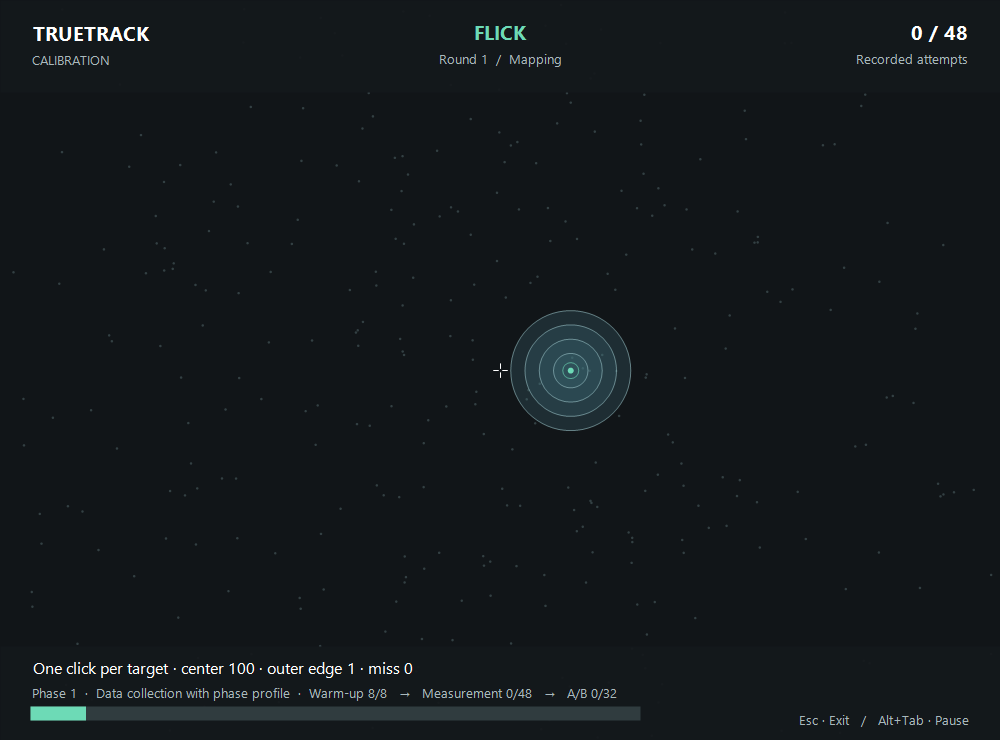
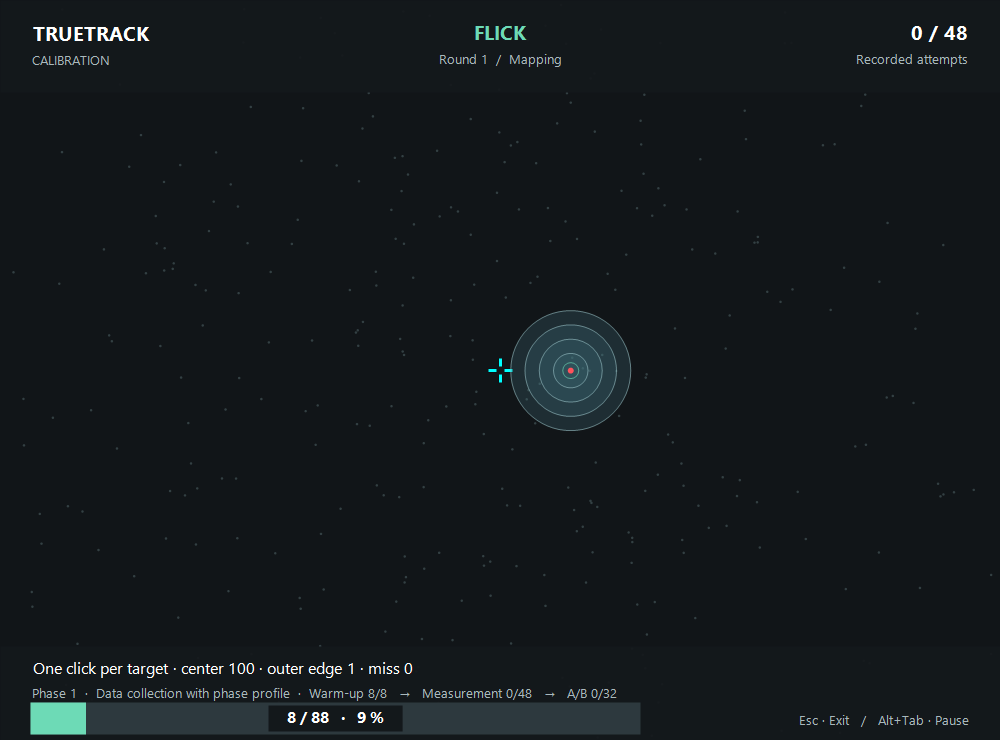
Release 0.19.2 with welcome crosshair selection and clearer progress

Changed region(s): [[0.031, 0.9324, 0.651, 0.9946]]

diff --git a/src/CircleForm.cs b/src/CircleForm.cs
@@ -1,4 +1,4 @@
-using System;
+using System;
 using System.Collections.Generic;
 using System.Diagnostics;
 using System.Drawing;
@@ -10,17 +10,19 @@ namespace VectorFit {
         readonly Setup setup;readonly Correction input;readonly List<CircleLap> plan;readonly Stopwatch clock=Stopwatch.StartNew();readonly Timer timer=new Timer();
         readonly Font title=new Font("Segoe UI",24,FontStyle.Bold,GraphicsUnit.Pixel),body=new Font("Segoe UI",15,GraphicsUnit.Pixel),small=new Font("Segoe UI",13,GraphicsUnit.Pixel);
         public readonly CircleData Data=new CircleData{Protocol=3};public bool Completed;public string DeviceName="";
+        double introShown,introExit;
         CircleTracker tracker;int index;double x,y,deadline,started;string phase="ready",feedback="",transition="";bool captured;IntPtr device=IntPtr.Zero;
         public CircleForm(Setup value,Correction inputCorrection=null){
             setup=value;input=inputCorrection??new Correction();plan=CircleData.Plan();x=plan[0].Radius;
             Text=L.T("VectorFit | Sirkeltest");BackColor=Color.FromArgb(17,21,24);DoubleBuffered=true;KeyPreview=true;AutoScaleMode=AutoScaleMode.None;WindowState=FormWindowState.Maximized;FormBorderStyle=FormBorderStyle.None;
             timer.Interval=16;timer.Tick+=delegate{
                 double now=clock.Elapsed.TotalMilliseconds;
+                if(phase=="intro-out"&&now-introExit>=320)BeginNext(true);
                 if(phase=="countdown"&&now>=deadline)BeginDrawing();
                 if(phase=="drawing"&&now-started>20000){tracker.Lap.Reason="Tiden gikk ut";FinishLap();}
                 Invalidate();
             };
-            Shown+=delegate{CaptureInput();timer.Start();};Deactivate+=delegate{if(captured)Pause();};
+            Shown+=delegate{introShown=clock.Elapsed.TotalMilliseconds;CaptureInput();timer.Start();};Deactivate+=delegate{if(captured)Pause();};
             FormClosing+=delegate{if(tracker!=null){tracker.Lap.Reason="Avsluttet";Data.Laps.Add(tracker.Lap);tracker=null;}};
             KeyDown+=delegate(object sender,KeyEventArgs e){if(e.KeyCode==Keys.Escape){Close();e.Handled=true;}if(e.KeyCode==Keys.Space&&phase=="paused"){CaptureInput();BeginNext(true);e.Handled=true;}};
         }
@@ -45,7 +47,7 @@ namespace VectorFit {
                     if(device==IntPtr.Zero&&(buttons&1)!=0){string name=Native.Name(handle);if(setup.Device!=""&&setup.Device!=name){feedback="Bruk samme mus og tilkobling som i kalibreringen.";}else{device=handle;DeviceName=name;}}
                     if(device!=IntPtr.Zero&&device==handle){
                         if(phase=="drawing"&&(dx!=0||dy!=0)){x+=dx*setup.DegreesPerCount;y+=dy*setup.DegreesPerCount;if(tracker.Add(x,y,clock.Elapsed.TotalMilliseconds))FinishLap();}
-                        if((buttons&1)!=0&&phase=="ready")BeginNext(true);
+                        if((buttons&1)!=0&&phase=="ready"){introExit=clock.Elapsed.TotalMilliseconds;phase="intro-out";}
                     }
                 }
             }base.WndProc(ref message);
@@ -64,14 +66,28 @@ namespace VectorFit {
                     var sizeText=g.MeasureString(L.T(countdown),body);PaintText.Draw(g,countdown,body,ink,cx-sizeText.Width/2,cy+48);
                 }
                 float pointerX=(float)(cx+x*scale),pointerY=(float)(cy+y*scale);using(var pen=new Pen(Color.FromArgb(237,244,242),1.5f)){g.DrawLine(pen,pointerX-9,pointerY,pointerX+9,pointerY);g.DrawLine(pen,pointerX,pointerY-9,pointerX,pointerY+9);}
-                if(phase=="ready")PaintText.Draw(g,DriverSetup.Text("Plasser musen midt på underlaget, med plass i alle retninger.","Center your mouse on the pad, with room in every direction."),body,ink,32,Height-145);
                 string instruction=phase=="ready"?DriverSetup.Text("Ingen krav til fine eller lukkede sirkler. Alle forsøk teller. Klikk for å starte.","No need for neat or closed circles. Every attempt counts. Click to start."):phase=="paused"?"Pause. Trykk mellomrom for å fortsette.":phase=="countdown"?"Gjør deg klar. Finn en behagelig bevegelse.":"La formen falle naturlig. Det er ingen punkter du må treffe.";
-                PaintText.Draw(g,instruction,body,ink,32,Height-112);
+                if(phase!="ready"&&phase!="intro-out")PaintText.Draw(g,instruction,body,ink,32,Height-112);
                 if(feedback!="")PaintText.Draw(g,feedback,small,muted,32,Height-137);
-                PaintText.Draw(g,"Datainnhenting → analyse → neste fase",small,muted,32,Height-76);
-                using(var track=new SolidBrush(Color.FromArgb(40,49,54)))g.FillRectangle(track,32,Height-48,Width-64,5);
-                g.FillRectangle(green,32,Height-48,(float)((Width-64)*(index+(tracker==null?0:tracker.Fraction))/60),5);
+                PaintText.Draw(g,"Datainnhenting → analyse → neste fase",small,muted,32,Height-90);
+                ProgressStrip.DrawBar(g,new RectangleF(32,Height-65,Width-64,32),(index+(tracker==null?0:tracker.Fraction))/60.0,index+" / 60");
                 PaintText.Draw(g,"Esc avslutter  ·  Alt+Tab setter på pause",small,muted,32,Height-28);
+                if(phase=="ready"||phase=="intro-out")DrawIntro(g);
+            }
+        }
+        void DrawIntro(Graphics g){
+            double now=clock.Elapsed.TotalMilliseconds;
+            float a=(float)Analysis.Clamp(phase=="intro-out"?1-(now-introExit)/320:(now-introShown)/650,0,1);a=a*a*(3-2*a);
+            float w=Math.Min(1000,ClientSize.Width-80),left=(ClientSize.Width-w)/2,top=ClientSize.Height/2f-210;
+            using(var shade=new SolidBrush(Color.FromArgb((int)(a*250),17,21,24)))g.FillRectangle(shade,left-20,top-30,w+40,440);
+            using(var heading=new Font("Segoe UI",36,FontStyle.Bold,GraphicsUnit.Pixel))using(var text=new Font("Segoe UI",24,GraphicsUnit.Pixel))
+            using(var ink=new SolidBrush(Color.FromArgb((int)(255*a),237,244,242)))using(var accent=new SolidBrush(Color.FromArgb((int)(255*a),109,218,182)))
+            using(var sf=new StringFormat{Alignment=StringAlignment.Center}){
+                g.DrawString(DriverSetup.Text("Finn din naturlige bevegelse","Discover your natural movement"),heading,ink,new RectangleF(left,top,w,65),sf);
+                g.DrawString(DriverSetup.Text("Gjør 30 runder med klokken, deretter 30 mot klokken.\nPilen viser retningen. Vi tar en pause når retningen byttes.","Make 30 clockwise turns, then 30 counterclockwise.\nFollow the arrow. There is a pause when direction changes."),text,ink,new RectangleF(left,top+90,w,95),sf);
+                g.DrawString(DriverSetup.Text("Ikke prøv å tegne perfekte sirkler eller rette opp formen.\nBeveg deg naturlig. Alle forsøk teller.","Do not try to draw perfect circles or correct their shape.\nMove naturally. Every attempt counts."),text,ink,new RectangleF(left,top+195,w,80),sf);
+                g.DrawString(DriverSetup.Text("Sentrer musen på underlaget og finn en behagelig håndstilling.","Center your mouse on the pad and find a comfortable hand position."),text,ink,new RectangleF(left,top+285,w,65),sf);
+                g.DrawString(DriverSetup.Text("Klikk når du er klar","Click when you are ready"),text,accent,new RectangleF(left,top+365,w,40),sf);
             }
         }
         internal static void DrawDirectionArrow(Graphics g,float cx,float cy,bool clockwise){
@@ -84,6 +100,7 @@ namespace VectorFit {
         }
         protected override void Dispose(bool disposing){if(disposing){timer.Stop();ReleaseInput();timer.Dispose();title.Dispose();body.Dispose();small.Dispose();}base.Dispose(disposing);}
 #if DEVELOPMENT
+        public void PreviewIntro(){WindowState=FormWindowState.Normal;Size=new Size(1000,740);phase="ready";introShown=-1000;}
         public void Preview(){WindowState=FormWindowState.Normal;Size=new Size(1280,800);index=3;x=0;y=plan[index].Radius;phase="drawing";}
         public void PreviewTransition(bool clockwise){Preview();index=clockwise?0:30;plan[index].Clockwise=clockwise;x=plan[index].Radius;y=0;transition=clockwise?"Gjør deg klar":"Bytter dreieretning";phase="countdown";deadline=clock.Elapsed.TotalMilliseconds+2500;}
 #endif

diff --git a/src/MainForm.cs b/src/MainForm.cs
@@ -18,7 +18,7 @@ namespace VectorFit {
             Text="TrueTrack | Kalibrering og global profil";Icon=Icon.ExtractAssociatedIcon(Application.ExecutablePath);ClientSize=new Size(1120,790);MinimumSize=new Size(1000,740);
             StartPosition=FormStartPosition.CenterScreen;BackColor=bg;ForeColor=ink;Font=new Font("Segoe UI",14,FontStyle.Regular,GraphicsUnit.Pixel);AutoScaleMode=AutoScaleMode.None;
             var root=new TableLayoutPanel{Dock=DockStyle.Fill,ColumnCount=1,RowCount=4,Padding=new Padding(30,20,30,18)};
-            root.RowStyles.Add(new RowStyle(SizeType.Absolute,85));root.RowStyles.Add(new RowStyle(SizeType.Absolute,53));root.RowStyles.Add(new RowStyle(SizeType.Percent,100));root.RowStyles.Add(new RowStyle(SizeType.Absolute,48));Controls.Add(root);
+            root.RowStyles.Add(new RowStyle(SizeType.Absolute,85));root.RowStyles.Add(new RowStyle(SizeType.Absolute,53));root.RowStyles.Add(new RowStyle(SizeType.Percent,100));root.RowStyles.Add(new RowStyle(SizeType.Absolute,66));Controls.Add(root);
             var head=new Panel{Dock=DockStyle.Fill};head.Controls.Add(new Label{Text="TrueTrack",Font=new Font("Segoe UI",34,FontStyle.Bold,GraphicsUnit.Pixel),ForeColor=ink,AutoSize=true,Location=new Point(75,0)});
             head.Controls.Add(new Label{Text="Mål bevegelsene. Test en personlig retningsprofil.",AutoSize=true,ForeColor=muted,Location=new Point(78,51)});root.Controls.Add(head,0,0);
             using(var stream=typeof(MainForm).Assembly.GetManifestResourceStream("TrueTrack.Logo")){if(stream!=null){using(var loaded=Image.FromStream(stream)){var logo=new PictureBox{Image=new Bitmap(loaded),SizeMode=PictureBoxSizeMode.Zoom,Location=new Point(0,0),Size=new Size(66,66),AccessibleName="TrueTrack"};logo.Disposed+=delegate{logo.Image.Dispose();};head.Controls.Add(logo);}}}
@@ -29,7 +29,7 @@ namespace VectorFit {
             string[] names={"Kalibrer","Resultat",DriverSetup.Text("Windows / spill","Windows / games"),"Statistikk",DriverSetup.Text("Historikk / oppdatering","History / updates"),DriverSetup.Text("Trening","Practice")};
             for(int i=0;i<nav.Length;i++){int n=i;nav[i]=Button(names[i],delegate{ShowPage(n);},140);tabs.Controls.Add(nav[i]);}root.Controls.Add(tabs,0,1);
             content=new Panel{Dock=DockStyle.Fill,Padding=new Padding(0,16,0,0)};root.Controls.Add(content,0,2);
-            var footer=new TableLayoutPanel{Dock=DockStyle.Fill,RowCount=2,ColumnCount=1,Margin=new Padding(0)};footer.RowStyles.Add(new RowStyle(SizeType.Absolute,14));footer.RowStyles.Add(new RowStyle(SizeType.Percent,100));
+            var footer=new TableLayoutPanel{Dock=DockStyle.Fill,RowCount=2,ColumnCount=1,Margin=new Padding(0)};footer.RowStyles.Add(new RowStyle(SizeType.Absolute,34));footer.RowStyles.Add(new RowStyle(SizeType.Percent,100));
             progress=new ProgressStrip{Dock=DockStyle.Fill,Maximum=144,Margin=new Padding(0)};footer.Controls.Add(progress,0,0);
             status=new Label{Dock=DockStyle.Fill,TextAlign=ContentAlignment.BottomLeft,ForeColor=muted,Font=new Font("Segoe UI",12,FontStyle.Regular,GraphicsUnit.Pixel)};footer.Controls.Add(status,0,1);root.Controls.Add(footer,0,3);
             FormClosing+=delegate{if(global!=null&&!global.IsDisposed)global.Close();};RefreshDriver();ShowPage(0);Shown+=delegate{if(AppUpdates.Enabled)AppUpdates.Check(this,true);};
@@ -73,11 +73,11 @@ namespace VectorFit {
             dpi=Number(draft.Dpi,100,50000,0);cm=Number(draft.Cm360,3,200,1);fov=Number(draft.Hfov,60,140,0);
             fields.Controls.Add(mouse,0,1);fields.Controls.Add(dpi,1,1);fields.Controls.Add(cm,2,1);fields.Controls.Add(fov,3,1);Add(stack,fields);
             var buttons=new FlowLayoutPanel{Height=52};buttons.Controls.Add(Button("Start kalibrering",delegate{Start(false);},230,true));buttons.Controls.Add(Button("Åpne lagret måling",LoadSession,230));buttons.Controls.Add(Button(L.English?"Game setup / blind measurement":"Spilloppsett / blindmåling",OpenGameSetup,320));Add(stack,buttons);
-            Add(stack,Button(DriverSetup.Text("Tilpass sikte","Customize crosshair"),delegate{using(var editor=new SightEditor())editor.ShowDialog(this);},260));
             var choices=new TableLayoutPanel{Height=64,ColumnCount=2,RowCount=2};choices.ColumnStyles.Add(new ColumnStyle(SizeType.Percent,68));choices.ColumnStyles.Add(new ColumnStyle(SizeType.Percent,32));
             var circle=CircleChoice();var sensitivity=SensitivityChoice();circle.Dock=DockStyle.Fill;sensitivity.Dock=DockStyle.Fill;
             arena=new CheckBox{Text=L.English?"Moving dot background":"Prikkebakgrunn i bevegelse",Checked=true,Enabled=false,Dock=DockStyle.Fill,ForeColor=ink};
             choices.Controls.Add(circle,0,0);choices.Controls.Add(arena,1,0);choices.Controls.Add(sensitivity,0,1);choices.SetColumnSpan(sensitivity,2);Add(stack,choices);
+            Add(stack,Button(DriverSetup.Text("Tilpass sikte","Customize crosshair"),delegate{using(var editor=new SightEditor())editor.ShowDialog(this);},260));
             Add(stack,TextLabel(L.English?"The environment stays the same for baseline and proposal. Choose it before starting a new baseline.":"Miljøet er likt for baseline og forslag. Velg det før du starter en ny baseline.",10,false,30));
             Add(stack,TextLabel(DriverSetup.Text("1. Sentrer musen og bruk et komfortabelt grep.\n2. Flick: klikk én gang, også når du bommer. Presisjon: fortsett til treff.\n3. Se forslaget før du tester eller aktiverer det.","1. Center your mouse and use a comfortable grip.\n2. Flick: click once, even on a miss. Precision: keep going until a hit.\n3. Review the proposal before testing or activating it."),11,false,82));
             Add(stack,TextLabel("Fase 1 samler baseline og foreslår innstillinger. Velg forslaget for å starte fase 2 med korrigeringen aktiv. Hver fase har flick og presisjon, med instruksjoner og klikk for å starte hver del. Senere faser kontrollerer neste forslag.",10,false,43));

diff --git a/src/Program.cs b/src/Program.cs
@@ -20,6 +20,9 @@ namespace VectorFit {
                 if(Array.IndexOf(args,"en")>=0)L.English=true;
                 if(args.Length>2&&args[0]=="--render-map") {var session=Session.FromJson(File.ReadAllText(args[2]));using(var map=new DirectionMap(session)){map.Width=950;using(var bmp=new Bitmap(map.Width,map.Height)){map.DrawToBitmap(bmp,new Rectangle(Point.Empty,bmp.Size));bmp.Save(args[1]);}}return 0;}
 
+                if(args.Length>1&&args[0]=="--render-welcome"){
+                    using(var f=new WelcomeForm()){f.StartPosition=FormStartPosition.Manual;f.Location=new Point(-20000,-20000);f.ShowInTaskbar=false;f.Show();f.Preview();Application.DoEvents();using(var bmp=new Bitmap(f.Width,f.Height)){f.DrawToBitmap(bmp,new Rectangle(Point.Empty,bmp.Size));bmp.Save(args[1]);}}return 0;
+                }
                 if(args.Length>1&&args[0]=="--render-crosshair"){
                     using(var f=new SightEditor()){f.StartPosition=FormStartPosition.Manual;f.Location=new Point(-20000,-20000);f.ShowInTaskbar=false;f.Show();Application.DoEvents();using(var bmp=new Bitmap(f.Width,f.Height)){f.DrawToBitmap(bmp,new Rectangle(Point.Empty,bmp.Size));bmp.Save(args[1]);}}return 0;
                 }
@@ -37,7 +40,7 @@ namespace VectorFit {
                     using(var f=new ActiveProfileDialog(true,"Den aktive Raw Accel-profilen stemmer ikke med oppsettet denne målingen krever.")){f.StartPosition=FormStartPosition.Manual;f.Location=new Point(-20000,-20000);f.ShowInTaskbar=false;f.Show();Application.DoEvents();using(var bmp=new Bitmap(f.Width,f.Height)){f.DrawToBitmap(bmp,new Rectangle(Point.Empty,bmp.Size));bmp.Save(args[1]);}f.Close();}return 0;
                 }
                 if(args.Length>1&&args[0]=="--render-circle") {
-                    using(var f=new CircleForm(new Setup())){if(Array.IndexOf(args,"cw")>=0||Array.IndexOf(args,"ccw")>=0)f.PreviewTransition(Array.IndexOf(args,"cw")>=0);else f.Preview();using(var bmp=new Bitmap(f.Width,f.Height)){f.DrawToBitmap(bmp,new Rectangle(Point.Empty,bmp.Size));bmp.Save(args[1]);}}return 0;
+                    using(var f=new CircleForm(new Setup())){if(Array.IndexOf(args,"cw")>=0||Array.IndexOf(args,"ccw")>=0)f.PreviewTransition(Array.IndexOf(args,"cw")>=0);else if(Array.IndexOf(args,"intro")>=0)f.PreviewIntro();else f.Preview();using(var bmp=new Bitmap(f.Width,f.Height)){f.DrawToBitmap(bmp,new Rectangle(Point.Empty,bmp.Size));bmp.Save(args[1]);}}return 0;
                 }
                 if(args.Length>1&&args[0]=="--render-practice"){
                     using(var f=new PracticeForm(new Setup(),args.Length>2?args[2]:"tracking",60,"preview")){f.Preview();using(var bmp=new Bitmap(f.Width,f.Height)){f.DrawToBitmap(bmp,new Rectangle(Point.Empty,bmp.Size));bmp.Save(args[1]);}}return 0;
@@ -46,7 +49,7 @@ namespace VectorFit {
                     using(var f=new ReplayForm(Session.FromJson(File.ReadAllText(args[2])))){f.Preview();f.StartPosition=FormStartPosition.Manual;f.Location=new Point(-20000,-20000);f.ShowInTaskbar=false;f.Show();Application.DoEvents();using(var bmp=new Bitmap(f.Width,f.Height)){f.DrawToBitmap(bmp,new Rectangle(Point.Empty,bmp.Size));bmp.Save(args[1]);}}return 0;
                 }
                 if(args.Length>1&&args[0]=="--render-aim") {
-                    using(var f=new AimForm(new Session{PrecisionFirst=true,SmallGainProtocol=true,Setup=new Setup{DottedCalibration=true,WideFlick=true,Arena=Array.IndexOf(args,"arena")>=0}},false,true)){if(Array.IndexOf(args,"precision")>=0||Array.IndexOf(args,"instructions")>=0)f.PreviewInstructions(Array.IndexOf(args,"precision")>=0);else f.PreviewRings();if(Array.IndexOf(args,"turned")>=0)f.PreviewCamera(25,12);if(Array.IndexOf(args,"small")>=0)f.Size=new Size(1000,740);using(var bmp=new Bitmap(f.Width,f.Height)){f.DrawToBitmap(bmp,new Rectangle(Point.Empty,bmp.Size));bmp.Save(args[1]);}}return 0;
+                    using(var f=new AimForm(new Session{PrecisionFirst=true,SmallGainProtocol=true,Setup=new Setup{Crosshair=Sight.DefaultJson(),DottedCalibration=true,WideFlick=true,Arena=Array.IndexOf(args,"arena")>=0}},false,true)){if(Array.IndexOf(args,"precision")>=0||Array.IndexOf(args,"instructions")>=0)f.PreviewInstructions(Array.IndexOf(args,"precision")>=0);else f.PreviewRings();if(Array.IndexOf(args,"turned")>=0)f.PreviewCamera(25,12);if(Array.IndexOf(args,"small")>=0)f.Size=new Size(1000,740);using(var bmp=new Bitmap(f.Width,f.Height)){f.DrawToBitmap(bmp,new Rectangle(Point.Empty,bmp.Size));bmp.Save(args[1]);}}return 0;
                 }
                 if(args.Length>1&&args[0]=="--render") {
                     using(var f=new MainForm()){
@@ -63,6 +66,9 @@ namespace VectorFit {
                 }
 #endif
                 Application.ThreadException+=delegate(object sender,System.Threading.ThreadExceptionEventArgs e){UiMessage.Show(e.Exception.Message,"TrueTrack");};
+#if !DEVELOPMENT
+                using(var welcome=new WelcomeForm()){if(welcome.ShowDialog()!=DialogResult.OK)return 0;}
+#endif
                 Application.Run(new MainForm());return 0;
             }catch(Exception e){
                 if(args.Length>0){File.WriteAllText(Path.Combine(Driver.Root,"startup-error.txt"),e.ToString());return 1;}

diff --git a/src/AimForm.cs b/src/AimForm.cs
@@ -253,7 +253,7 @@ namespace VectorFit {
                 Action<string,Font,Brush,float,float> line=(text,font,brush,y,h)=>g.DrawString(L.T(text),font,brush,new RectangleF(left,y,width,h),sf);
                 line(confirmation?"BEKREFTELSE · SAMME A OG B":"FASE "+round+(validation?" · A/B-KONTROLL":baselineOnly?" · BASELINE":" · MÅLING MED FASEPROFIL"),instructionFont,Brushes.White,top,40);
                 line(PartTitle,headingFont,Brushes.White,top+46,55);
-                line(precision?"Treff den grønne prikken så raskt du klarer med kontroll.":"Sikt raskt mot den grønne prikken og klikk én gang.",instructionFont,Brushes.White,top+112,52);
+                line(precision?"Treff den grønne prikken så raskt du klarer med kontroll.":DriverSetup.Text("Sikt raskt mot det røde sentrumet og klikk én gang.","Aim quickly at the red centre and click once."),instructionFont,Brushes.White,top+112,52);
                 line(precision?"Ved bom: korriger og klikk igjen på samme mål. Klokken fortsetter.":"Første klikk går videre, også ved bom. Ikke vent for å finjustere.",instructionFont,Brushes.White,top+172,68);
                 line("Maks 3 sekunder per mål. Både tid og treff teller.",detailFont,Brushes.White,top+250,40);
                 line(DriverSetup.Text("Plasser musen midt på underlaget, med plass i alle retninger. Finn en behagelig håndstilling.","Center your mouse on the pad, with room in every direction. Find a comfortable hand position."),detailFont,Brushes.White,top+294,58);
@@ -297,8 +297,7 @@ namespace VectorFit {
                 g.DrawString(instruction,body,Brushes.White,30,h-83);
                 var progress=Progress;g.DrawString(progress.Label,small,muted,30,h-56);
                 using(var right=new StringFormat{Alignment=StringAlignment.Far})g.DrawString("Esc · "+DriverSetup.Text("Avslutt","Exit")+"   /   Alt+Tab · "+DriverSetup.Text("Pause","Pause"),small,muted,new RectangleF(w-330,h-29,300,22),right);
-                using(var track=new SolidBrush(Color.FromArgb(48,60,63)))g.FillRectangle(track,30,h-34,w-390,14);
-                g.FillRectangle(mint,30,h-34,(float)((w-390)*progress.Fraction),14);
+                ProgressStrip.DrawBar(g,new RectangleF(30,h-38,w-390,32),progress.Fraction,progress.Done+" / "+progress.Total);
             }
         }
         static readonly PointD[] calibrationDots=MakeCalibrationDots();
@@ -327,7 +326,7 @@ namespace VectorFit {
                 float radius=TargetRadius;
                 if(rings&&!precision)for(int ring=5;ring>=2;ring--){float rr=radius*(largeTargets&&setup.WideFlick?1+19f*(ring-1)/4: ring);using(var fill=new SolidBrush(Color.FromArgb(32+ring*7,64,114,126)))g.FillEllipse(fill,p.X-rr,p.Y-rr,rr*2,rr*2);using(var line=new Pen(Color.FromArgb(150,153,193,199),1))g.DrawEllipse(line,p.X-rr,p.Y-rr,rr*2,rr*2);}
 
-                using(var brush=new SolidBrush(Color.FromArgb(109,218,182)))g.FillEllipse(brush,p.X-radius,p.Y-radius,2*radius,2*radius);
+                using(var brush=new SolidBrush(precision?Color.FromArgb(109,218,182):Color.FromArgb(255,82,91)))g.FillEllipse(brush,p.X-radius,p.Y-radius,2*radius,2*radius);
                 using(var pen=new Pen(Color.FromArgb(160,109,218,182),1))g.DrawEllipse(pen,p.X-radius-5,p.Y-radius-5,2*radius+10,2*radius+10);
             }else {
                 string text=L.T(dualTask&&(phase=="ready"||phase=="intro-out")?"":phase=="countdown"?"":phase=="ready"?"Klikk når du er klar":feedback);
@@ -343,8 +342,7 @@ namespace VectorFit {
             DrawEffects(g);
             if(setup.Arena){DrawArenaHud(g);return;}
             var progress=Progress;
-            using(var track=new SolidBrush(Color.FromArgb(40,49,54)))g.FillRectangle(track,32,Height-55,Width-64,14);
-            using(var fill=new SolidBrush(Color.FromArgb(109,218,182)))g.FillRectangle(fill,32,Height-55,(float)((Width-64)*progress.Fraction),14);
+            ProgressStrip.DrawBar(g,new RectangleF(32,Height-65,Width-64,32),progress.Fraction,progress.Done+" / "+progress.Total);
             using(var brush=new SolidBrush(Color.FromArgb(164,179,185)))PaintText.Draw(g,progress.Label,small,brush,32,Height-82);
         }
     }

diff --git a/src/Welcome.cs b/src/Welcome.cs
@@ -1,0 +1,19 @@
+using System;
+using System.Drawing;
+using System.Windows.Forms;
+namespace VectorFit {
+ class WelcomeForm:Form {
+  readonly Timer fade=new Timer();bool leaving;
+  public WelcomeForm(){Text="TrueTrack";ClientSize=new Size(720,570);MinimumSize=Size;MaximumSize=Size;StartPosition=FormStartPosition.CenterScreen;BackColor=Color.FromArgb(17,21,24);ForeColor=Color.White;AutoScaleMode=AutoScaleMode.None;FormBorderStyle=FormBorderStyle.FixedSingle;MaximizeBox=false;Opacity=0;
+   var title=new Label{Text="Welcome to TrueTrack",Font=new Font("Segoe UI",34,FontStyle.Bold,GraphicsUnit.Pixel),TextAlign=ContentAlignment.MiddleCenter,Bounds=new Rectangle(30,70,660,65)};Controls.Add(title);
+   Controls.Add(new Label{Text=DriverSetup.Text("Finn din naturlige bevegelse. Test det som fungerer for deg.","Discover your movement. Test what works for you."),Font=new Font("Segoe UI",18,GraphicsUnit.Pixel),ForeColor=Color.FromArgb(169,184,188),TextAlign=ContentAlignment.MiddleCenter,Bounds=new Rectangle(40,145,640,60)});
+   var preview=new Panel{Bounds=new Rectangle(270,220,180,100),BackColor=Color.FromArgb(28,34,38)};preview.Paint+=delegate(object o,PaintEventArgs e){Sight.Draw(e.Graphics,90,50,Sight.Preference());};Controls.Add(preview);
+   var choose=new Button{Text=DriverSetup.Text("Velg ditt foretrukne sikte","Choose your preferred crosshair"),Font=new Font("Segoe UI",18,GraphicsUnit.Pixel),FlatStyle=FlatStyle.Flat,ForeColor=ForeColor,BackColor=BackColor,Bounds=new Rectangle(170,335,380,44)};choose.Click+=delegate{using(var editor=new SightEditor())editor.ShowDialog(this);preview.Invalidate();};Controls.Add(choose);
+   Controls.Add(new Label{Text=DriverSetup.Text("Valgfritt · du kan endre siktet senere under Kalibrer.","Optional · change it later under Calibrate."),Font=new Font("Segoe UI",15,GraphicsUnit.Pixel),ForeColor=Color.FromArgb(169,184,188),TextAlign=ContentAlignment.MiddleCenter,Bounds=new Rectangle(40,393,640,35)});
+   var go=new Button{Text=DriverSetup.Text("Kom i gang","Get started"),Font=new Font("Segoe UI",18,GraphicsUnit.Pixel),FlatStyle=FlatStyle.Flat,BackColor=Color.FromArgb(109,218,182),ForeColor=BackColor,Bounds=new Rectangle(240,460,240,48)};go.FlatAppearance.BorderSize=0;go.Click+=delegate{leaving=true;go.Enabled=false;};Controls.Add(go);AcceptButton=go;
+   fade.Interval=16;fade.Tick+=delegate{Opacity=Math.Max(0,Math.Min(1,Opacity+(leaving?-.065:.045)));if(leaving&&Opacity<=0){DialogResult=DialogResult.OK;Close();}};Shown+=delegate{fade.Start();};
+  }
+  public void Preview(){Opacity=1;fade.Stop();}
+  protected override void Dispose(bool disposing){if(disposing)fade.Dispose();base.Dispose(disposing);}
+ }
+}

diff --git a/src/Sight.cs b/src/Sight.cs
@@ -5,14 +5,17 @@ using System.Windows.Forms;
 using Newtonsoft.Json;
 namespace VectorFit {
  public class Sight {
-  public int Style=0,Size=7,Gap=2,Thickness=2,ColorIndex=0;
+  public int Style=0,Size=12,Gap=4,Thickness=3,ColorIndex=1;
+  public bool Outline;
+  public static string DefaultJson(){return JsonConvert.SerializeObject(new Sight{Outline=true});}
   public static readonly Color[] Colors={Color.White,Color.Cyan,Color.Lime,Color.Magenta,Color.Yellow,Color.Red};
-  public static Sight Parse(string json){try{return String.IsNullOrEmpty(json)?new Sight():JsonConvert.DeserializeObject<Sight>(json)??new Sight();}catch{return new Sight();}}
-  public static string Preference(){try{return File.ReadAllText(Path.Combine(Driver.Data,"crosshair.json"));}catch{return null;}}
+  public static Sight Parse(string json){try{return String.IsNullOrEmpty(json)?new Sight{Outline=true}:JsonConvert.DeserializeObject<Sight>(json)??new Sight();}catch{return new Sight();}}
+  public static string Preference(){try{return File.ReadAllText(Path.Combine(Driver.Data,"crosshair.json"));}catch{return DefaultJson();}}
   public static void Draw(Graphics g,float x,float y,string json){
    if(String.IsNullOrEmpty(json)){using(var p=new Pen(Color.White,1.5f)){g.DrawLine(p,x-7,y,x-2,y);g.DrawLine(p,x+2,y,x+7,y);g.DrawLine(p,x,y-7,x,y-2);g.DrawLine(p,x,y+2,x,y+7);}return;}
    var s=Parse(json);float r=(float)Analysis.Clamp(s.Size,3,32),gap=(float)Analysis.Clamp(s.Gap,0,r-1),th=(float)Analysis.Clamp(s.Thickness,1,6);int style=(int)Analysis.Clamp(s.Style,0,5);Color c=Colors[(int)Analysis.Clamp(s.ColorIndex,0,Colors.Length-1)];
-   using(var p=new Pen(c,th))using(var b=new SolidBrush(c)){
+   for(int pass=s.Outline?0:1;pass<2;pass++)
+   using(var p=new Pen(pass==0?Color.FromArgb(12,18,21):c,pass==0?th+2:th))using(var b=new SolidBrush(pass==0?Color.FromArgb(12,18,21):c)){
     if(style==2||style==3||style==4||style==5)g.DrawEllipse(p,x-r,y-r,2*r,2*r);
     if(style==0||style==4){g.DrawLine(p,x-r,y,x-gap,y);g.DrawLine(p,x+gap,y,x+r,y);g.DrawLine(p,x,y-r,x,y-gap);g.DrawLine(p,x,y+gap,x,y+r);}
     if(style==5){float inner=r*.7f;g.DrawLine(p,x-r-3,y,x-inner,y);g.DrawLine(p,x+inner,y,x+r+3,y);g.DrawLine(p,x,y-r-3,x,y-inner);g.DrawLine(p,x,y+inner,x,y+r+3);}

diff --git a/src/Statistics.cs b/src/Statistics.cs
@@ -28,7 +28,13 @@ namespace VectorFit {
     class ProgressStrip:Control {
         public int Value,Maximum=144;
         public ProgressStrip(){DoubleBuffered=true;AccessibleRole=AccessibleRole.ProgressBar;}
-        protected override void OnPaint(PaintEventArgs e){e.Graphics.Clear(Color.FromArgb(45,57,62));using(var fill=new SolidBrush(Color.FromArgb(109,218,182)))e.Graphics.FillRectangle(fill,0,0,Width*(float)Math.Min(Maximum,Value)/Maximum,Height);}
+        protected override void OnPaint(PaintEventArgs e){DrawBar(e.Graphics,ClientRectangle,Maximum<=0?0:(double)Value/Maximum,Value+" / "+Maximum);}
+        public static void DrawBar(Graphics g,RectangleF area,double fraction,string count){
+            fraction=Analysis.Clamp(fraction,0,1);
+            using(var track=new SolidBrush(Color.FromArgb(45,57,62)))using(var fill=new SolidBrush(Color.FromArgb(109,218,182))){g.FillRectangle(track,area);g.FillRectangle(fill,area.X,area.Y,(float)(area.Width*fraction),area.Height);}
+            string label=count+"   ·   "+Math.Floor(fraction*100).ToString("0")+" %";
+            using(var font=new Font("Segoe UI",16,FontStyle.Bold,GraphicsUnit.Pixel))using(var sf=new StringFormat{Alignment=StringAlignment.Center,LineAlignment=StringAlignment.Center})using(var shade=new SolidBrush(Color.FromArgb(19,24,27))){var size=g.MeasureString(label,font);g.FillRectangle(shade,area.X+(area.Width-size.Width-24)/2,area.Y+3,size.Width+24,area.Height-6);g.DrawString(label,font,Brushes.White,area,sf);}
+        }
     }
     public class CalibrationProgress {
         public int Round=1,Warmup,Measured,Compared,PrecisionMeasured,PrecisionCompared;

diff --git a/src/Practice.cs b/src/Practice.cs
@@ -70,7 +70,7 @@ namespace VectorFit {
   protected override void OnPaint(PaintEventArgs e){base.OnPaint(e);var g=e.Graphics;g.SmoothingMode=System.Drawing.Drawing2D.SmoothingMode.AntiAlias;ArenaScene.Draw(g,ClientSize,Result.Setup.Hfov,x,y);
    float f=(float)(ClientSize.Width/(2*Math.Tan(Result.Setup.Hfov*Math.PI/360))),r=f*(float)Math.Tan(Radius*Math.PI/180);
    if(Result.Mode=="switch")for(int i=0;i<4;i++){var p=Project(Practice.Spots[i]);using(var pen=new Pen(Color.FromArgb(90,120,123),2))g.DrawEllipse(pen,p.X-r,p.Y-r,r*2,r*2);}
-   if(clock.Elapsed.TotalMilliseconds>=nextOnset){var p=Project(target);using(var b=new SolidBrush(Color.FromArgb(109,218,182)))g.FillEllipse(b,p.X-r,p.Y-r,r*2,r*2);}
+   if(clock.Elapsed.TotalMilliseconds>=nextOnset){var p=Project(target);using(var b=new SolidBrush(Result.Mode=="flick"?Color.FromArgb(255,82,91):Color.FromArgb(109,218,182)))g.FillEllipse(b,p.X-r,p.Y-r,r*2,r*2);}
    int cx=ClientSize.Width/2,cy=ClientSize.Height/2;Sight.Draw(g,cx,cy,Result.Setup.Crosshair);
    using(var b=new SolidBrush(Color.FromArgb(19,24,27))){g.FillRectangle(b,0,0,ClientSize.Width,90);g.FillRectangle(b,0,ClientSize.Height-80,ClientSize.Width,80);}
    g.DrawString("TRUETRACK / "+Practice.Name(Result.Mode),heading,Brushes.White,28,16);

diff --git a/src/Experience.cs b/src/Experience.cs
@@ -49,7 +49,7 @@ namespace VectorFit {
   static string Value(double? v){return v.HasValue?v.Value.ToString("F1"):"—";}
  }
  public static class AppUpdates {
-  public const string Version="0.19.1";
+  public const string Version="0.19.2";
   static bool checking;
   public static bool Enabled {get{return File.Exists(Path.Combine(Driver.Data,"check-updates.txt"));}set{var p=Path.Combine(Driver.Data,"check-updates.txt");if(value)File.WriteAllText(p,"yes");else if(File.Exists(p))File.Delete(p);}}
   public static bool Newer(string tag){System.Version v;return System.Version.TryParse((tag??"").TrimStart('v'),out v)&&v>new System.Version(Version);}

diff --git a/README.md b/README.md
@@ -4,9 +4,9 @@
 
 **Free, open-source mouse calibration and aim testing for Windows.**
 
-[![Download for Windows](https://img.shields.io/badge/Download_for_Windows-v0.19.1-168A66?style=for-the-badge&logo=windows&logoColor=white)](https://github.com/FLASHBiRDone/TrueTrack/releases/download/v0.19.1/TrueTrack-Windows.zip)
+[![Download for Windows](https://img.shields.io/badge/Download_for_Windows-v0.19.2-168A66?style=for-the-badge&logo=windows&logoColor=white)](https://github.com/FLASHBiRDone/TrueTrack/releases/download/v0.19.2/TrueTrack-Windows.zip)
 
-**[Download the Windows ZIP](https://github.com/FLASHBiRDone/TrueTrack/releases/download/v0.19.1/TrueTrack-Windows.zip)** · [Release notes and checksums](https://github.com/FLASHBiRDone/TrueTrack/releases/tag/v0.19.1) · [Roadmap](ROADMAP.md)
+**[Download the Windows ZIP](https://github.com/FLASHBiRDone/TrueTrack/releases/download/v0.19.2/TrueTrack-Windows.zip)** · [Release notes and checksums](https://github.com/FLASHBiRDone/TrueTrack/releases/tag/v0.19.2) · [Roadmap](ROADMAP.md)
 
 Extract the entire ZIP, open the **TrueTrack** folder and run **TrueTrack.exe**. No build required. Windows x64 and .NET Framework 4.7.2 or later are required. The application is unsigned; Windows may show a reputation warning.
 
@@ -17,6 +17,14 @@ Measure your flicks and precision, compare sensitivity profiles, and check wheth
 Our long-term goal is a free, open-source aim-training platform shaped by its community. The current release is experimental—not yet a full Aimlabs replacement. Testers and contributors are welcome.
 
 The app supports English (first-launch default) and Norwegian; saved language choices are retained. Calibration and local comparisons do not require installing an input driver. Global profiles use optional drivers with separate setup and compatibility considerations.
+
+## Welcome and crosshair selection
+
+The welcome screen previews your crosshair and offers optional customization before you begin. New preferences default to a larger cyan cross with a dark outline and open centre; saved choices are retained.
+
+![Welcome screen with optional crosshair selection](docs/screenshots/welcome.png)
+
+Circle calibration begins with large centred instructions that fade in and wait for your click. They explain 30 clockwise and 30 counterclockwise turns, natural movement and the direction-change pause. Recording starts after the fade-out and countdown. Progress bars are 32–34 pixels tall and show completed counts and percentage. Flick bullseyes are red; precision targets remain green.
 
 ## Calibration and practice views
 

diff --git a/ALGORITHM.md b/ALGORITHM.md
@@ -202,3 +202,7 @@ New baselines store Setup.DottedCalibration=true and use a low-contrast projecte
 ## Crosshair configuration
 
 Customize crosshair offers cross, dot, ring, ring with dot, ring with cross, and ring with ticks and dot; six colors, size, gap and thickness have a live preview. Preferences are stored locally in profiles/crosshair.json. New baselines snapshot the selection in Setup.Crosshair; continuation and confirmation preserve it, and history equivalence includes it. Practice snapshots the current preference when starting. Legacy measurements without this field retain the original crosshair. This only draws inside TrueTrack; no desktop/game overlay is installed or activated.
+
+## Welcome and instruction presentation
+
+On startup a minimal welcome screen previews the current crosshair and offers optional customization before continuing. Existing preferences are retained. The default for new preferences is a larger cyan cross with a dark outline and open centre. Existing measurement snapshots retain their previous crosshair. Circle-test instructions fade into the centre and wait for a click, then fade out before countdown and recording. Progress bars show counts and percentages in a 32–34 pixel bar. Flick centres are red; precision targets remain green. These presentation changes do not change scoring thresholds or acceptance rules.
